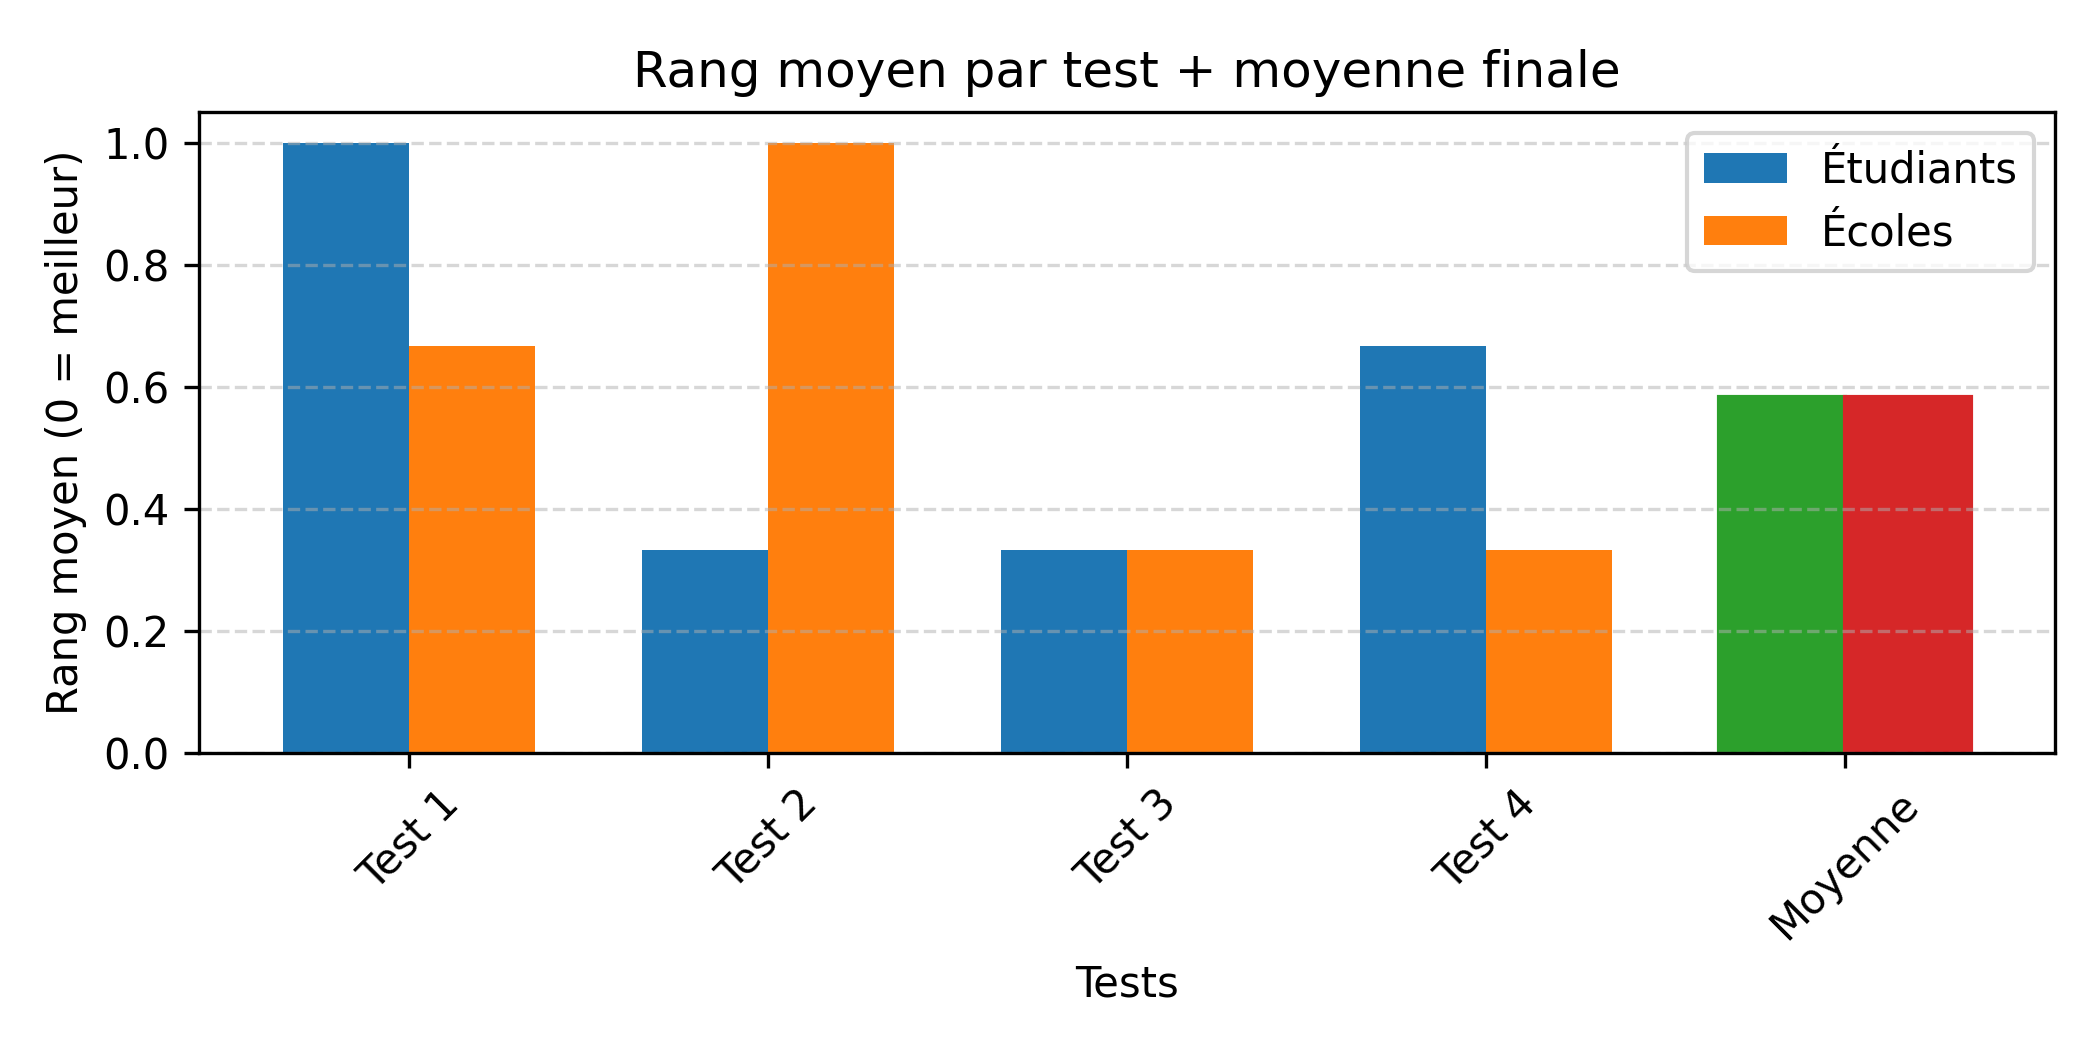
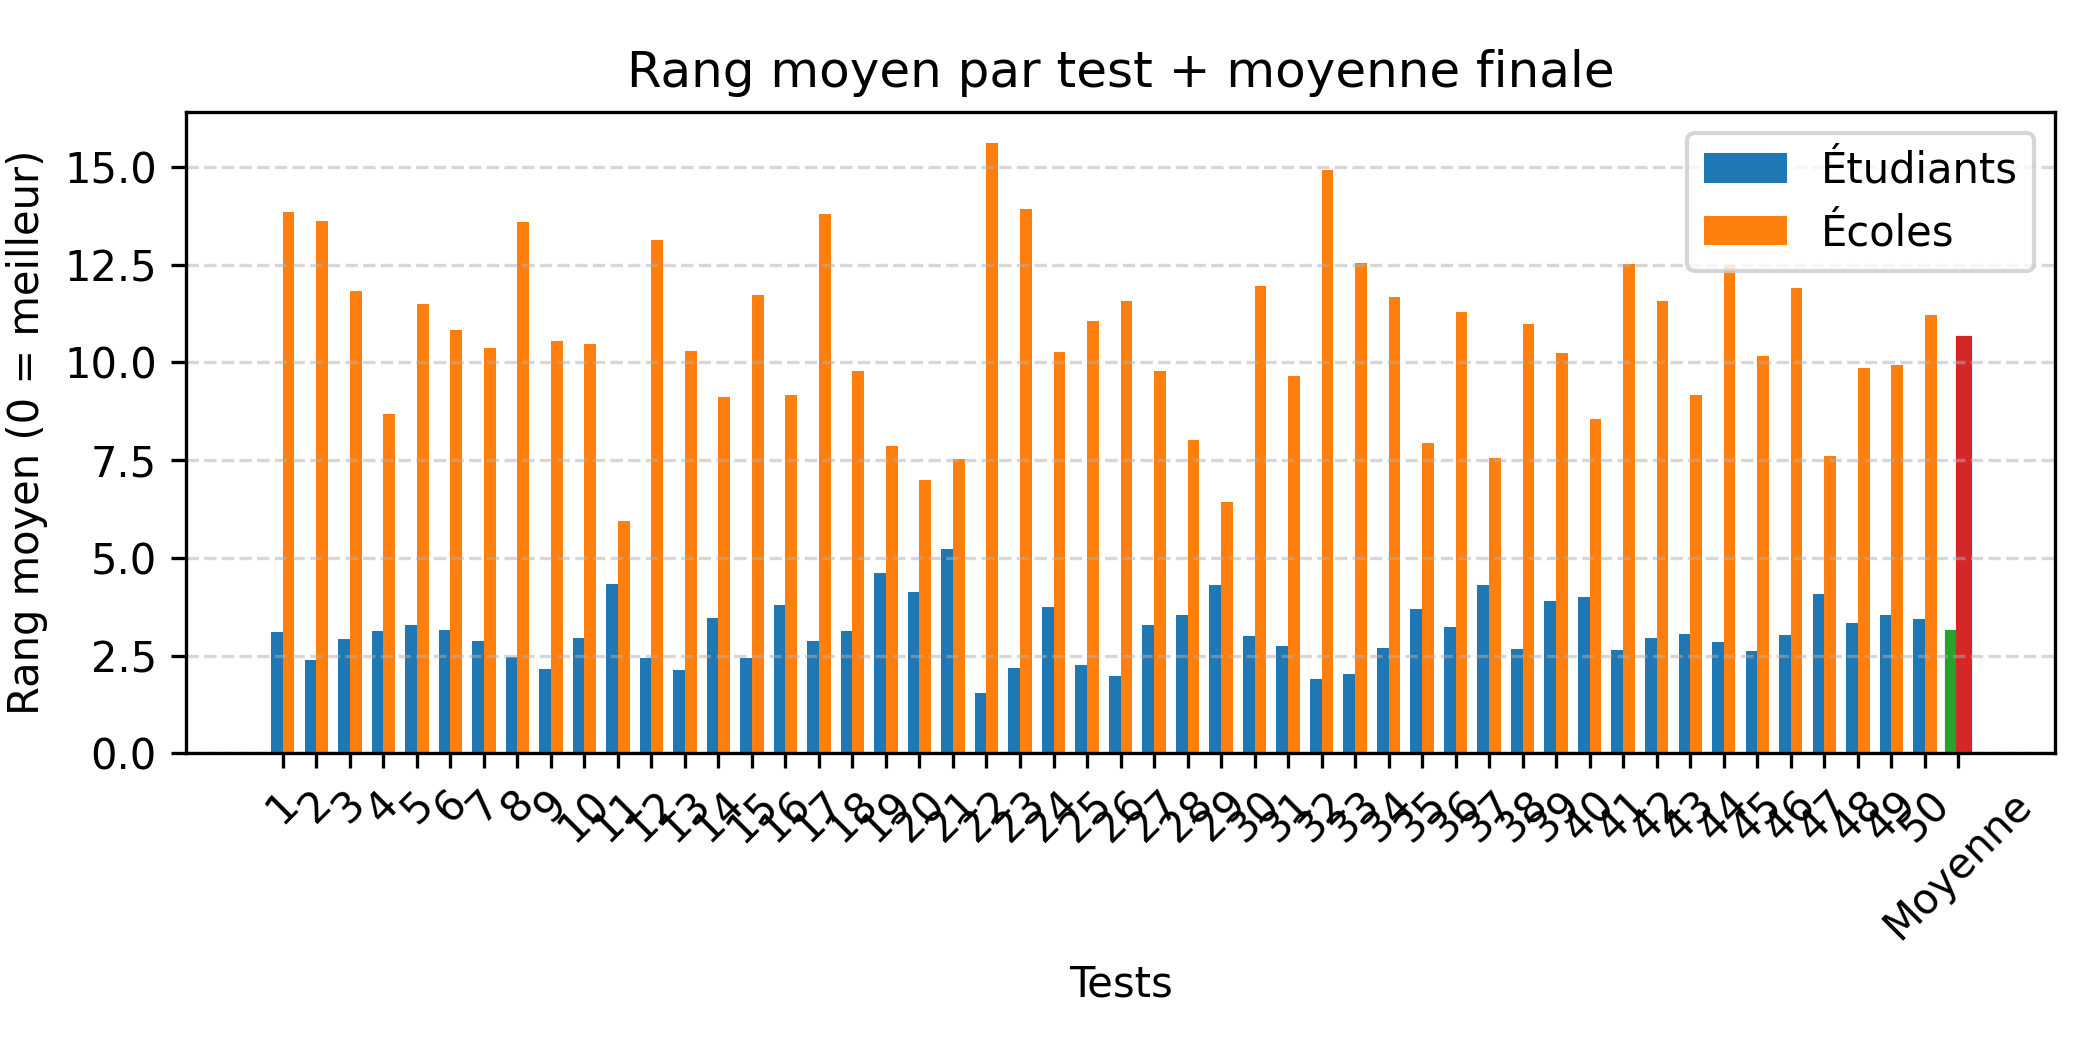
petites maj

diff --git a/generate_preference.py b/generate_preference.py
@@ -10,8 +10,24 @@ SCHOOLS_FR = [
     "École Polytechnique", "HEC Paris", "Sorbonne Université", "INSA Lyon",
     "ESSEC Business School", "Sciences Po", "Mines ParisTech", "ENSAE Paris",
     "Université de Montpellier", "CentraleSupélec", "Université de Bordeaux",
-    "ENS Lyon", "Télécom Paris", "Université Grenoble Alpes", "EM Lyon"
+    "ENS Lyon", "Télécom Paris", "Université Grenoble Alpes", "EM Lyon",
+    "Université Paris-Saclay", "Université de Lille", "Université de Strasbourg",
+    "Université de Nantes", "Université de Rennes 1", "Université Toulouse III - Paul Sabatier",
+    "Université Paris Cité", "Université de Lorraine", "Université de Nice - Côte d’Azur",
+    "Université de Caen Normandie", "Université de Tours", "Université d’Angers",
+    "Université Clermont Auvergne", "Université de Reims Champagne-Ardenne",
+    "Université de Franche-Comté", "Université de La Réunion",
+    "Université de Poitiers", "Université Savoie Mont Blanc", "Université de Rouen Normandie",
+    "Université d’Orléans", "Université de Limoges", "Université de Perpignan Via Domitia",
+    "Université de Pau et des Pays de l’Adour", "Université du Mans", "Université d’Artois",
+    "Université de Valenciennes", "Université d’Évry-Val-d’Essonne",
+    "Université Paris Nanterre", "Université Paris 1 Panthéon-Sorbonne",
+    "Université Paris Dauphine-PSL", "Université Paris-Est Créteil (UPEC)",
+    "Université Paris 8 Vincennes-Saint-Denis", "Université Gustave Eiffel",
+    "Université de Technologie de Compiègne (UTC)", "Université de Technologie de Troyes (UTT)",
+    "Université de Technologie de Belfort-Montbéliard (UTBM)"
 ]
+
 
 def generate_preferences(n_students, n_schools):
     """Génère des préférences aléatoires pour n étudiants et n écoles."""

diff --git a/test_mesures_graph.py b/test_mesures_graph.py
@@ -74,7 +74,7 @@ def test_measures_with_graphs(nb_tests=20, n_students=15, n_schools=15):
     rank_students_extended = rank_students + [mean_rank_stu]
     rank_schools_extended  = rank_schools + [mean_rank_sch]
 
-    labels_rank = [f"Test {i}" for i in tests] + ["Moyenne"]
+    labels_rank = [i for i in tests] + ["Moyenne"]
     pos_rank = np.arange(len(labels_rank))
 
     bars_rank_students = ax1.bar(pos_rank - bar_width/2, rank_students_extended,
@@ -108,7 +108,7 @@ def test_measures_with_graphs(nb_tests=20, n_students=15, n_schools=15):
     welfare_students_extended = welfare_students + [mean_welfare_stu]
     welfare_schools_extended  = welfare_schools  + [mean_welfare_sch]
 
-    labels_welfare = [f"Test {i}" for i in tests] + ["Moyenne"]
+    labels_welfare = [i for i in tests] + ["Moyenne"]
     pos = np.arange(len(labels_welfare))
 
     # Barres normales (tests)
@@ -124,7 +124,7 @@ def test_measures_with_graphs(nb_tests=20, n_students=15, n_schools=15):
     ax2.set_xlabel("Tests")
     ax2.set_ylabel("Welfare (plus haut = mieux)")
     ax2.legend()
-    ax2.grid(True, axis="y", linestyle="--", alpha=0.5)
+    ax2.grid(True, axis="y", linestyle="--", alpha=0.8)
     fig2.tight_layout()
     fig2.savefig(os.path.join(output_dir, "hist_welfare_plus_moyenne.png"), dpi=300)
 
@@ -138,7 +138,7 @@ def test_measures_with_graphs(nb_tests=20, n_students=15, n_schools=15):
     egalitarian_students_extended = egalitarian_students + [mean_egal_stu]
     egalitarian_schools_extended  = egalitarian_schools  + [mean_egal_sch]
 
-    labels_egal = [f"Test {i}" for i in tests] + ["Moyenne"]
+    labels_egal = [i for i in tests] + ["Moyenne"]
     pos_egal = np.arange(len(labels_egal))
 
     bars_egal_students = ax3.bar(pos_egal - bar_width/2, egalitarian_students_extended,

diff --git a/ui.py b/ui.py
@@ -33,8 +33,9 @@ L'algorithme garantit un résultat stable et permet d'analyser la satisfaction m
 # PARAMÈTRES UTILISATEUR
 # ============================================================
 st.sidebar.header("Paramètres")
-n_entites = st.sidebar.slider("Nombre d'entités ", 2, 10, 5)
-nb_tests = st.sidebar.slider("Nombre d'instances aléatoires", 1, 20, 5)
+n_entites = st.sidebar.slider("Nombre d'entités ", 2, 50, 5)
+nb_tests = st.sidebar.slider("Nombre d'instances aléatoires", 1, 50, 5)
+speed = st.sidebar.slider("Vitesse d'exécution (démo)", 0.0, 5.0, 1.0)
 start_btn = st.sidebar.button("Générer et exécuter l'algorithme")
 
 # ============================================================
@@ -130,7 +131,7 @@ if start_btn:
 
     st.markdown("---")
     st.subheader("Déroulement pas à pas")
-    engaged = mariage_stable_animated(prefs_students, prefs_schools, speed=1.0)
+    engaged = mariage_stable_animated(prefs_students, prefs_schools, speed)
 
     # ============================================================
     # MESURES FINALES
